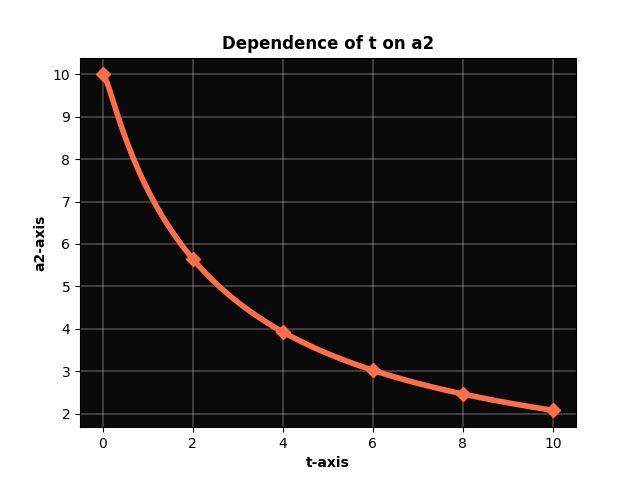
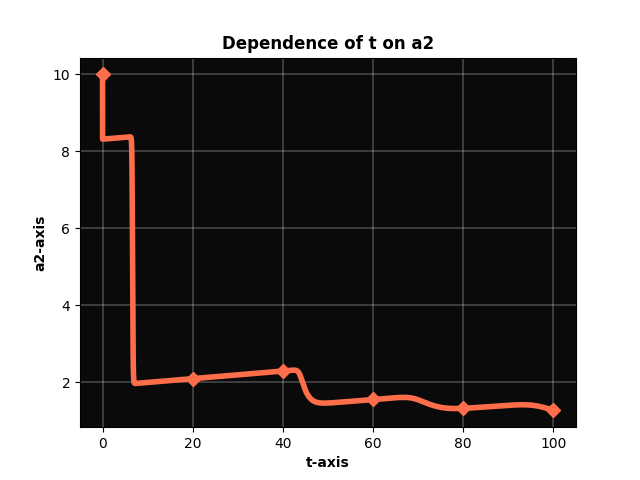
commit 08.05

diff --git a/cauchy_populations.py b/cauchy_populations.py
@@ -2,6 +2,7 @@ import numpy as np
 import matplotlib.pyplot as plt
 from scipy.optimize import fsolve
 import warnings
+import time
 warnings.filterwarnings("ignore")
 
 class CauchySolving:
@@ -37,7 +38,7 @@ class CauchySolving:
 
     def dynamic_shift(self, bottom=None, top=None):
         w = self.current_vector()
-        if bottom is None: bottom = 0.01
+        if bottom is None: bottom = 0.0001
         if top is None: top = 2000 - self.timeline[-1]
         try:
             JacDerMat = np.zeros((4, 4))
@@ -102,13 +103,27 @@ class CauchySolving:
         
     def method_explicit_Euler(self, iterations_num=None):
         self.reset()
+        start = time.time()
         self.iter_implicit_Euler(10**(-5))
         if iterations_num is None:
-            while self.timeline[-1] <= 2000:
+            iterations_num = 0
+            while self.timeline[-1] < 2000:
                 self.iter_explicit_Euler()
+                iterations_num += 1
         else:
-            for _ in range(iterations_num):
+            for i in range(iterations_num):
                 self.iter_explicit_Euler()
+                if self.timeline[-1] == 2000:
+                    iterations_num = i + 1
+                    break
+        end = time.time()
+        with open('last_run_results/about_last_run.txt', 'w') as f:
+            f.write(f"Initial conditions (x, y, alpha1, alpha2, epsilon):")
+            f.write(f" {list(self.initial)};\n")
+            f.write(f"Method: explicit Euler;\n")
+            f.write(f"The processed time interval: 0-{round(self.timeline[-1], 4)};\n")
+            f.write(f"Number of useful iterations: {iterations_num};\n")
+            f.write(f"The time of run: {round(end - start, 4)} seconds;")
         self.draw_one_plot("t", "x")
         self.draw_one_plot("t", "y")
         self.draw_one_plot("t", "a1")
@@ -128,13 +143,27 @@ class CauchySolving:
 
     def method_explicit_Euler_recalc(self, iterations_num=None):
         self.reset()
+        start = time.time()
         self.iter_implicit_Euler(10**(-5))
         if iterations_num is None:
-            while self.timeline[-1] <= 2000:
+            iterations_num = 0
+            while self.timeline[-1] < 2000:
                 self.iter_explicit_Euler_recalc()
+                iterations_num += 1
         else:
-            for _ in range(iterations_num):
+            for i in range(iterations_num):
                 self.iter_explicit_Euler_recalc()
+                if self.timeline[-1] == 2000:
+                    iterations_num = i + 1
+                    break
+        end = time.time()
+        with open('last_run_results/about_last_run.txt', 'w') as f:
+            f.write(f"Initial conditions (x, y, alpha1, alpha2, epsilon):")
+            f.write(f" {list(self.initial)};\n")
+            f.write(f"Method: explicit Euler recalc;\n")
+            f.write(f"The processed time interval: 0-{round(self.timeline[-1], 4)};\n")
+            f.write(f"Number of useful iterations: {iterations_num};\n")
+            f.write(f"The time of run: {round(end - start, 4)} seconds;")
         self.draw_one_plot("t", "x")
         self.draw_one_plot("t", "y")
         self.draw_one_plot("t", "a1")
@@ -156,13 +185,27 @@ class CauchySolving:
     
     def method_explicit_Runge_Kutta4(self, iterations_num=None):
         self.reset()
+        start = time.time()
         self.iter_implicit_Euler(10**(-5))
         if iterations_num is None:
-            while self.timeline[-1] <= 2000:
+            iterations_num = 0
+            while self.timeline[-1] < 2000:
                 self.iter_explicit_Runge_Kutta4()
+                iterations_num += 1
         else:
-            for _ in range(iterations_num):
+            for i in range(iterations_num):
                 self.iter_explicit_Runge_Kutta4()
+                if self.timeline[-1] == 2000:
+                    iterations_num = i + 1
+                    break
+        end = time.time()
+        with open('last_run_results/about_last_run.txt', 'w') as f:
+            f.write(f"Initial conditions (x, y, alpha1, alpha2, epsilon):")
+            f.write(f" {list(self.initial)};\n")
+            f.write(f"Method: explicit RungeKutta4;\n")
+            f.write(f"The processed time interval: 0-{round(self.timeline[-1], 4)};\n")
+            f.write(f"Number of useful iterations: {iterations_num};\n")
+            f.write(f"The time of run: {round(end - start, 4)} seconds;")
         self.draw_one_plot("t", "x")
         self.draw_one_plot("t", "y")
         self.draw_one_plot("t", "a1")
@@ -234,13 +277,27 @@ class CauchySolving:
                         
     def method_implicit_Euler(self, iterations_num=None):
         self.reset()
+        start = time.time()
         self.iter_implicit_Euler(10**(-5))
         if iterations_num is None:
-            while self.timeline[-1] <= 2000:
+            iterations_num = 0
+            while self.timeline[-1] < 2000:
                 self.iter_implicit_Euler()
+                iterations_num += 1
         else:
-            for _ in range(iterations_num):
+            for i in range(iterations_num):
                 self.iter_implicit_Euler()
+                if self.timeline[-1] == 2000:
+                    iterations_num = i + 1
+                    break
+        end = time.time()
+        with open('last_run_results/about_last_run.txt', 'w') as f:
+            f.write(f"Initial conditions (x, y, alpha1, alpha2, epsilon):")
+            f.write(f" {list(self.initial)};\n")
+            f.write(f"Method: implicit Euler;\n")
+            f.write(f"The processed time interval: 0-{round(self.timeline[-1], 4)};\n")
+            f.write(f"Number of useful iterations: {iterations_num};\n")
+            f.write(f"The time of run: {round(end - start, 4)} seconds;")
         self.draw_one_plot("t", "x")
         self.draw_one_plot("t", "y")
         self.draw_one_plot("t", "a1")
@@ -309,13 +366,27 @@ class CauchySolving:
 
     def method_implicit_trapezoid(self, iterations_num=None):
         self.reset()
+        start = time.time()
         self.iter_implicit_Euler(10**(-5))
         if iterations_num is None:
-            while self.timeline[-1] <= 2000:
+            iterations_num = 0
+            while self.timeline[-1] < 2000:
                 self.iter_implicit_trapezoid()
+                iterations_num += 1
         else:
-            for _ in range(iterations_num):
+            for i in range(iterations_num):
                 self.iter_implicit_trapezoid()
+                if self.timeline[-1] == 2000:
+                    iterations_num = i + 1
+                    break
+        end = time.time()
+        with open('last_run_results/about_last_run.txt', 'w') as f:
+            f.write(f"Initial conditions (x, y, alpha1, alpha2, epsilon):")
+            f.write(f" {list(self.initial)};\n")
+            f.write(f"Method: implicit trapezoid;\n")
+            f.write(f"The processed time interval: 0-{round(self.timeline[-1], 4)};\n")
+            f.write(f"Number of useful iterations: {iterations_num};\n")
+            f.write(f"The time of run: {round(end - start, 4)} seconds;")
         self.draw_one_plot("t", "x")
         self.draw_one_plot("t", "y")
         self.draw_one_plot("t", "a1")
@@ -344,6 +415,6 @@ class CauchySolving:
 #         ...
         
 if __name__ == "__main__":
-    default_case = [40, 10, 1, 10, 0.005, 0.01]
+    default_case = [40, 10, 0, 10, 0.005, 0.01]
     c = CauchySolving(default_case)
-    c.method_implicit_Euler(1000)
+    c.method_implicit_Euler(10000)
